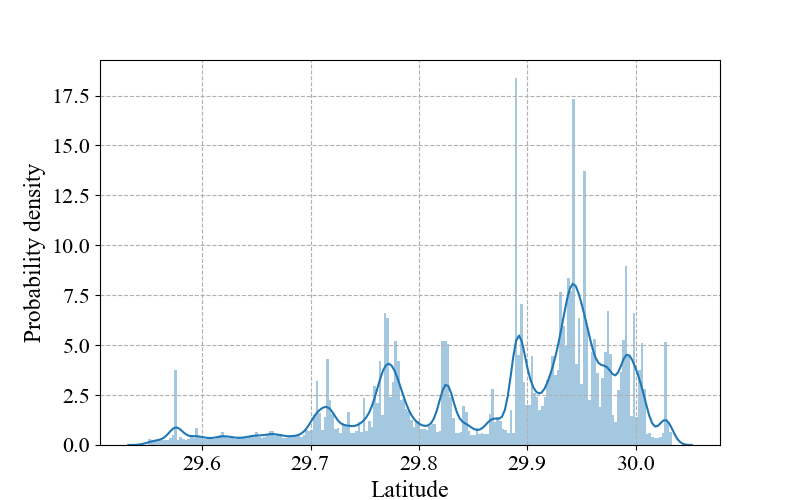
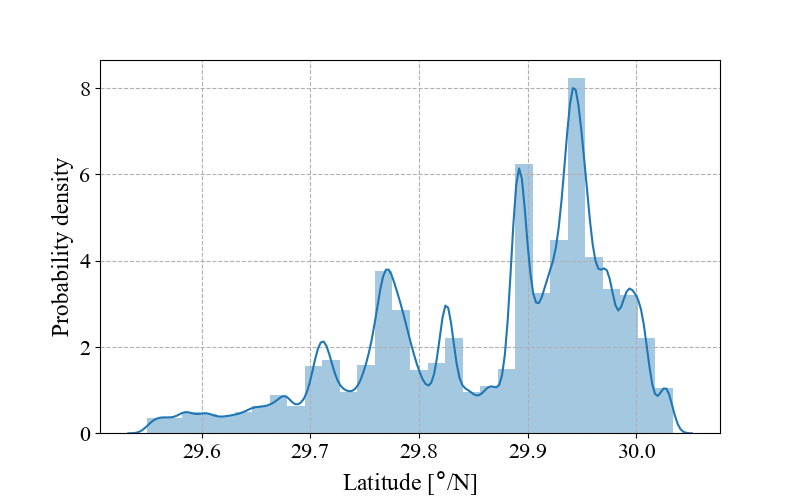
change

diff --git a/plot_networkx.py b/plot_networkx.py
@@ -5,6 +5,7 @@ import numpy as np
 import warnings
 import pypsr
 import pandas as pd
+import json
 import community_networkx as cn
 
 
@@ -19,10 +20,13 @@ input_file = r'/home/mty/conflictNUM.csv'
 df = pd.read_csv(input_file)
 
 origin_info = list(df.iloc[:, 1])
+origin_time = list(df.iloc[:, 2])
 new_info = []
+new_time = []
 for index, row in enumerate(origin_info):
     if index%2 == 0:
         new_info.append(row)
+        new_time.append(int(origin_time[index]))
 warnings.filterwarnings("error")
 reconstruct_list = pypsr.reconstruct(new_info, 12, 6)
 threshold = 0.85
@@ -50,11 +54,11 @@ G.add_edges_from(node_couple_set)
 clustering = nx.clustering(G)
 node_list = list(clustering)
 print(max(node_list))
-fig1 = plt.figure(figsize=(12, 8))
-ax = fig1.add_subplot(111)
-nx.draw_networkx(G, with_labels=False, node_color='r', node_size=50, alpha=0.8)
-plt.axis("off")
-plt.savefig(r'complex_networkx.png', dpi=600)
+# fig1 = plt.figure(figsize=(12, 8))
+# ax = fig1.add_subplot(111)
+# nx.draw_networkx(G, with_labels=False, node_color='r', node_size=50, alpha=0.8)
+# plt.axis("off")
+# plt.savefig(r'complex_networkx.png', dpi=600)
 # np.save(r'node_couple_set(0.85).npy', np.array(node_couple_set))
 #
 # fig2 = plt.figure(figsize=(8, 5))
@@ -79,4 +83,13 @@ plt.savefig(r'complex_networkx.png', dpi=600)
 # pos = cn.community_layout(G, partition)
 # nx.draw(G, pos, node_color=list(partition.values()), with_labels=False, node_size=50, alpha=0.8)
 # plt.savefig(r'community_structure.png', dpi=600)
-plt.show()
+
+# communities_generator = community.girvan_newman(G)
+# top_level_communities = next(communities_generator)
+# next_level_communities = next(communities_generator)
+# community_structure = sorted(map(sorted, next_level_communities))
+# with open('data01.json', 'w') as fjson:
+#     json.dump(partition, fjson)
+with open('node_timestamp.json', 'w') as djson:
+    json.dump(new_time, djson)
+# # plt.show()

diff --git a/displot_display.py b/displot_display.py
@@ -6,13 +6,17 @@ minlat = 29.55
 maxlat = 30.0335
 minlon = 121.85
 maxlon = 122.5
-tem = df.loc[(df.lat >= minlat) & (df.lat <= maxlat) & (df.lon >= minlon) & (df.lon <= maxlon) & (df.SOG <= 20)]
+tem = df.loc[(df.lat >= minlat) & (df.lat <= maxlat) & (df.lon >= minlon) & (df.lon <= maxlon)]
+# tem = df.loc[(df.lat >= minlat) & (df.lat <= maxlat) & (df.lon >= minlon) & (df.lon <= maxlon) & (df.SOG <= 25)]
 fig = plt.figure(figsize=(8, 5))
-ax = sns.histplot(data=tem, x="SOG", bins=30, stat='density', kde=True)
-# ax = sns.distplot(tem['SOG'].values, bins=200, kde=True)
+# ax = sns.histplot(data=tem, x="SOG", bins=15, stat='density', kde=True)
+ax = sns.distplot(tem['lon'].values, bins=50, kde=True)
+# ax = sns.distplot(tem['lat'].values, bins=30, kde=True)
 labels = ax.get_xticklabels() + ax.get_yticklabels()
 [label.set_fontname('Times New Roman') for label in labels]
-ax.set_xlabel('SOG', fontsize=17, fontname='Times New Roman')
+# ax.set_xlabel('SOG [kn]', fontsize=17, fontname='Times New Roman')
+ax.set_xlabel('Longitude ['+r'$\degree$'+'/N]', fontsize=17, fontname='Times New Roman')
+# ax.set_xlabel('Latitude ['+r'$\degree$'+'/N]', fontsize=17, fontname='Times New Roman')
 ax.set_ylabel('Probability density', fontsize=17, fontname='Times New Roman')
 plt.tick_params(labelsize=16)
 plt.grid(linestyle='--')

diff --git a/community_display.py b/community_display.py
@@ -1,0 +1,49 @@
+import json
+import matplotlib.pyplot as plt
+import numpy as np
+with open('data01.json', 'r') as fjson:
+     data= json.load(fjson)
+with open('node_timestamp.json', 'r') as tjson:
+    node_timestamp = json.load(tjson)
+
+def time_match(C):
+    time_list = []
+    for node in C:
+        time_list.append(node_timestamp[node])
+    return time_list
+
+C0 = []
+C1 = []
+C2 = []
+C3 = []
+C4 = []
+C5 = []
+C6 = []
+max_value = 0
+for key in data:
+    if data[key] == 0:
+        C0.append(int(key))
+    elif data[key] == 1:
+        C1.append(int(key))
+    elif data[key] == 2:
+        C2.append(int(key))
+    elif data[key] == 3:
+        C3.append(int(key))
+    elif data[key] == 4:
+        C4.append(int(key))
+    elif data[key] == 5:
+        C5.append(int(key))
+    elif data[key] == 6:
+        C6.append(int(key))
+    else:
+        pass
+    if int(key) > max_value:
+        max_value = int(key)
+C_set = [C0, C1, C2, C3, C4, C5, C6]
+
+fig1 = plt.figure(figsize=(12, 8))
+ax = fig1.add_subplot(111)
+for index, c in enumerate(C_set):
+    ax.scatter(time_match(c),np.ones(len(c))+index+1)
+# plt.savefig(r'complex_networkx.png', dpi=600)
+plt.show()

diff --git a/PositionCode.py b/PositionCode.py
@@ -283,19 +283,26 @@ def indirect4(cordinate):
 df = pd.read_csv(r'/home/mty/data/dynamic/20181001.csv')
 len_df = len_dataset(df)
 Dimension = 2
-latRange = [29.55, 30.1]
-lonRange = [121.9, 122.45]
+# #area1
+# latRange = [29.55, 30.1]
+# lonRange = [121.9, 122.45]
+# #area2
+# latRange = [29.5, 30.2]
+# lonRange = [121.9, 122.45]
+#area3
+latRange = [29.5, 30.2]
+lonRange = [121.8, 122.5]
 cordinate = cordi(df)
-# print('count of ship: '+str(len(cordinate)))
+print('count of ship: '+str(len(cordinate)))
 basicDomin = ellipseDomain(a=1.6, b=4) # generate the basic domain (L=1)
 Num_stra_conf, Time_stra_conf = direct(cordinate)
 print(Time_stra_conf)
 print(Num_stra_conf)
 # # Result = indirect2(cordinate)
-# Result = indirect1(cordinate)
-# b=pd.DataFrame(Result)
+Result = indirect1(cordinate)
+b=pd.DataFrame(Result)
 #
-# b.to_csv(r'/home/mty/result(14z).csv')
+b.to_csv(r'/home/mty/result(AreaZ3).csv')
 # boundary = domain(100, basicDomin)
 # cordinate_display(cordinate)
 # encoding_display(newTemp)

diff --git a/cummnuity_test.py b/cummnuity_test.py
@@ -1,0 +1,7 @@
+from networkx.algorithms import community
+import networkx as nx
+G = nx.barbell_graph(5, 1)
+communities_generator = community.girvan_newman(G)
+top_level_communities = next(communities_generator)
+next_level_communities = next(communities_generator)
+print(sorted(map(sorted, next_level_communities)))
